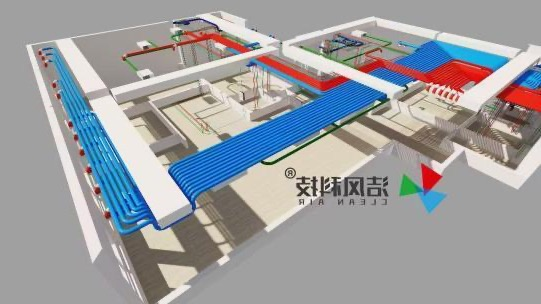
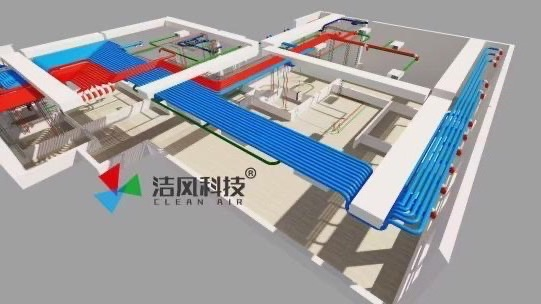
correct case imagery and editorial flow

diff --git a/proposal/jiangshanjing-fresh-air/index.html b/proposal/jiangshanjing-fresh-air/index.html
@@ -6,7 +6,7 @@
     <meta name="robots" content="noindex, nofollow, noarchive, nosnippet, noimageindex" />
     <meta name="referrer" content="no-referrer" />
     <title>长沙江山境新风与阳台地暖提案 | ZEFENG MEP</title>
-    <link rel="stylesheet" href="/proposal/jiangshanjing-fresh-air/proposal.css?v=20260825-6" />
+    <link rel="stylesheet" href="/proposal/jiangshanjing-fresh-air/proposal.css?v=20260825-7" />
   </head>
   <body>
     <header class="reader-bar">
@@ -38,8 +38,20 @@
           <p>按客餐厅 <b>1.0 次/h</b>、卧室 <b>1.5 次/h</b>、净高 <b>2.7m</b> 初算，所需有效新风量约 <b>633m³/h</b>。建议采用 <strong>基德曼 ZEUS Ultra 7.5（750m³/h）</strong>，并以 <strong>14 个 PE90 独立送风口</strong>完成分区送风；主机预留约 18.5% 的系统余量，最终以实际设计静压下不低于约 630-650m³/h 的有效风量完成深化与调试。</p>
         </aside>
 
-        <section>
-          <p class="chapter">01 · WHY FRESH AIR</p>
+        <section class="reading-map">
+          <p class="reading-kicker">阅读这份提案</p>
+          <h2>从居住问题出发，最后落到可以验收的结果</h2>
+          <ol>
+            <li><span>01</span><div><b>为什么需要新风</b><p>先理解二楼住宅的真实通风处境，而不是从设备参数开始。</p></div></li>
+            <li><span>02</span><div><b>需要多少风量</b><p>按空间逐一计算，明确主机、风口与每个房间的目标值。</p></div></li>
+            <li><span>03</span><div><b>如何把风送到房间</b><p>说明独立送回风、分风箱与一管到底的完整气流路径。</p></div></li>
+            <li><span>04</span><div><b>如何证明施工结果</b><p>用 BIM、施工实景和吊顶前实测建立可追溯的交付证据。</p></div></li>
+            <li><span>05</span><div><b>最终承诺什么</b><p>把得风率、PM2.5、CO₂ 与噪声写成有条件的验收目标。</p></div></li>
+          </ol>
+        </section>
+
+        <section class="theme-insight">
+          <p class="chapter">01 · 居住背景</p>
           <h2>二楼住宅，不宜把开窗当作唯一通风方式</h2>
           <p class="deck">本案位于高层商品房的低楼层。开窗当然可以换气，但噪声、蚊虫、灰尘、尾气与安全感会同时进入生活。</p>
           <div class="low-floor-grid">
@@ -57,8 +69,8 @@
           </div>
         </section>
 
-        <section class="dimensions-section">
-          <p class="chapter">02 · FOUR DIMENSIONS</p>
+        <section class="dimensions-section theme-insight">
+          <p class="chapter">02 · 住宅四维</p>
           <h2>住宅品质，要从空气、水、光、声四个维度理解</h2>
           <p class="deck">装修决定第一眼的美，机电系统决定身体每天真实感受到的居住环境。</p>
           <div class="dimension-grid">
@@ -70,8 +82,8 @@
           <p class="source-note">本提案重点解决空气与水/热环境，并通过关窗换气、消音和减振保护声环境；光环境由室内设计专项深化。ZEUS Ultra 750 是全热交换新风，不具备主动制冷、制热或深度除湿能力，湿度仍需由空调或独立控湿系统承担。</p>
         </section>
 
-        <section>
-          <p class="chapter">03 · AIRFLOW BASIS</p>
+        <section class="theme-air">
+          <p class="chapter">03 · 风量依据</p>
           <h2>先按空间计算，再决定主机</h2>
           <p class="deck">厨房、家政间及卫生间不计入主要送风面积；卫生间通过独立排风建立洁净空气的最终出口。</p>
           <div class="airflow-table" role="table" aria-label="江山境新风量初步计算">
@@ -86,8 +98,8 @@
           <p class="source-note">初算依据：图示主要服务面积合计 194.60㎡，层高按 2.7m；北侧家政间旁厨房、家政间、卫生间及附属小空间未计入主要送风面积。最终风量还需结合常住人数、门窗气密性和实际管路阻力复核。</p>
         </section>
 
-        <section class="product-section">
-          <p class="chapter">04 · MAIN UNIT</p>
+        <section class="product-section theme-air">
+          <p class="chapter">04 · 主机选型</p>
           <h2>为什么选择 ZEUS Ultra 750</h2>
           <p class="deck">不是单纯追求更大的铭牌风量，而是给管路、过滤器和长期使用留出可调余量。</p>
           <figure class="article-image product-image">
@@ -106,8 +118,8 @@
           </div>
         </section>
 
-        <section>
-          <p class="chapter">05 · AIR DISTRIBUTION</p>
+        <section class="theme-air">
+          <p class="chapter">05 · 气流组织</p>
           <h2>每个区域有送风，也有回风</h2>
           <p class="deck">新风真正的价值，不只在于进入住宅，还在于经过人的停留区后，能沿清晰路径被带走。</p>
           <div class="route-diagram" aria-label="江山境新风空气路径">
@@ -146,8 +158,8 @@
           </div>
         </section>
 
-        <section class="bathroom-section">
-          <p class="chapter">06 · CLEAN BATHROOM</p>
+        <section class="bathroom-section theme-air">
+          <p class="chapter">06 · 洁净卫生间</p>
           <h2>洁净卫生间，不让湿气和异味回到生活区</h2>
           <p class="deck">建议主卧套内主卫与暗卫各设置 1 台洁风智慧排风，形成两个独立的负压排风点。</p>
           <div class="bathroom-flow"><span>生活区微正压</span><i>→</i><strong>卫生间轻微负压</strong><i>→</i><span>定向排至室外</span></div>
@@ -159,30 +171,30 @@
           <p class="source-note">智慧排风最终档位、定排量和增压量需结合排风管长度、止回装置、室外风压、门下缝或转移风条件调试。排风不得接入新风机室外新风取风口附近，避免短路回吸。</p>
         </section>
 
-        <section class="delivery-quality-section">
-          <p class="chapter">07 · DELIVERY AS PROOF</p>
+        <section class="delivery-quality-section theme-delivery">
+          <p class="chapter">07 · 交付实证</p>
           <h2>设备只是起点，吊顶前的数据才是交付</h2>
           <p class="deck">同样的主机与管材，设计路径、弯曲半径、支路阻力、消音减振和逐口平衡都会改变最后的结果。泽丰把这些看不见的过程，变成一组可检查的案例证据。</p>
 
           <div class="case-story">
-            <figure class="case-visual case-bim"><img src="/proposal/jiangshanjing-fresh-air/images/case-bim-model.jpg" alt="洁风住宅机电 BIM 管线路由建模案例" /><figcaption>同类住宅项目：BIM 管线路由深化</figcaption></figure>
-            <div class="case-copy"><span>01 / BEFORE SITE</span><h3>先在模型里解决冲突，再到现场布管</h3><p>按房间目标风量反推风口、支路与分风箱，提前协调梁位、吊顶、水电管线、检修口和外墙孔。模型不是效果图，而是现场放线、编号与复核的共同依据。</p></div>
+            <figure class="case-visual case-bim"><img src="/proposal/jiangshanjing-fresh-air/images/case-bim-model.jpg?v=3" alt="洁风住宅机电 BIM 管线路由建模案例" /><figcaption>同类住宅项目：BIM 管线路由深化</figcaption></figure>
+            <div class="case-copy"><span>01 / 施工之前</span><h3>先在模型里解决冲突，再到现场布管</h3><p>按房间目标风量反推风口、支路与分风箱，提前协调梁位、吊顶、水电管线、检修口和外墙孔。模型不是效果图，而是现场放线、编号与复核的共同依据。</p></div>
           </div>
 
-          <figure class="case-panorama"><img src="/proposal/jiangshanjing-fresh-air/images/case-pipes-cyan.jpg" alt="洁风抗菌 PE 新风管一管到底精细施工案例" /><figcaption><b>02 / PRECISE INSTALLATION</b><span>洁风抗菌 PE 管由分风箱独立分配，一管到底；支路有序、标识清楚、弯曲顺畅，吊顶封闭后仍可追溯。</span></figcaption></figure>
+          <figure class="case-panorama"><img src="/proposal/jiangshanjing-fresh-air/images/case-pipes-cyan.jpg?v=3" alt="洁风抗菌 PE 新风管一管到底精细施工案例" /><figcaption><b>02 / 精细施工</b><span>洁风抗菌 PE 管由分风箱独立分配，一管到底；支路有序、标识清楚、弯曲顺畅，吊顶封闭后仍可追溯。</span></figcaption></figure>
 
           <div class="case-detail">
-            <figure><img src="/proposal/jiangshanjing-fresh-air/images/case-pipes-blue.jpg" alt="蓝色 PE 新风管绕梁有序施工案例" /></figure>
+            <figure><img src="/proposal/jiangshanjing-fresh-air/images/case-pipes-blue.jpg?v=3" alt="蓝色 PE 新风管绕梁有序施工案例" /></figure>
             <div><span>施工案例细节</span><h3>不以“吊顶会遮住”为理由降低标准</h3><p>每条支路控制弯曲半径和固定间距，关键连接密封、主机软接减振、室外风管连续保温；送回风支路逐根编号，不用三通串联把未知阻力藏在吊顶里。</p><p>这套做法的价值，是让远端房间也能获得设计风量，同时降低气流声与串音风险。</p></div>
           </div>
 
           <div class="case-measurement">
-            <div class="measurement-copy"><span>03 / BEFORE CEILING CLOSURE</span><h3>先验收，再允许封吊顶</h3><p>安装完成、吊顶尚未封闭时，逐口测量送风、回风和卫生间排风，并同步检查管路、标签、密封、保温、减振和检修条件。若有偏差，此时仍能找到原因并立即调整。</p><strong>这是泽丰与普通设备销售最重要的区别：不是等入住后凭体感争论，而是在隐蔽工程封闭前用数据确认。</strong></div>
+            <div class="measurement-copy"><span>03 / 吊顶封闭之前</span><h3>先验收，再允许封吊顶</h3><p>安装完成、吊顶尚未封闭时，逐口测量送风、回风和卫生间排风，并同步检查管路、标签、密封、保温、减振和检修条件。若有偏差，此时仍能找到原因并立即调整。</p><strong>这是泽丰与普通设备销售最重要的区别：不是等入住后凭体感争论，而是在隐蔽工程封闭前用数据确认。</strong></div>
             <figure><img src="/proposal/jiangshanjing-fresh-air/images/case-airflow-testing.jpg?v=2" alt="洁风技术人员在吊顶封闭前进行风量实测" /><figcaption>同类项目吊顶前逐口风量检测</figcaption></figure>
           </div>
 
           <div class="air-delivery-definition">
-            <div><span>ROOM DELIVERY RATE</span><h3>我们只看每个房间是否真正得到设计风量</h3></div>
+            <div><span>每个房间的得风率</span><h3>我们只看每个房间是否真正得到设计风量</h3></div>
             <p class="delivery-formula">房间得风率 = 该房间实测送风量 ÷ 该房间设计送风量 × 100%</p>
             <div class="delivery-example">
               <span>验收口径示例</span><b>设计 60m³/h</b><i>→</i><strong>实测不得低于 60m³/h</strong><em>得风率 ≥100%</em>
@@ -191,8 +203,8 @@
           </div>
         </section>
 
-        <section>
-          <p class="chapter">08 · MATERIAL SYSTEM</p>
+        <section class="theme-delivery">
+          <p class="chapter">08 · 材料系统</p>
           <h2>材料不是零散采购，而是一套低阻、低噪、可调的风路系统</h2>
           <div class="system-ledger">
             <article><i>01</i><div><h3>洁风定制分风箱</h3><p>送风与回风分别集中分配，支路编号清晰，便于单管调节、检修与最终风量平衡。</p></div></article>
@@ -204,8 +216,8 @@
           </div>
         </section>
 
-        <section class="heating-section">
-          <p class="chapter">09 · BALCONY HEATING</p>
+        <section class="heating-section theme-heat">
+          <p class="chapter">09 · 阳台地暖</p>
           <h2>补齐客厅阳台的温度边界</h2>
           <p class="deck">精装地暖没有覆盖客厅阳台。本案按约 22㎡ 增设两路水地暖，让阳台与客厅形成连续、舒适的活动空间。</p>
           <figure class="article-image heating-plan">
@@ -244,8 +256,8 @@
           <p class="source-note">施工前需复核阳台门槛、完成面标高、饰面材料适配性、实际可铺面积、单回路长度及阻力。地暖层做法与装饰完成面之间的配合由现场深化后确认。</p>
         </section>
 
-        <section class="boiler-section">
-          <p class="chapter">10 · HEAT SOURCE</p>
+        <section class="boiler-section theme-heat">
+          <p class="chapter">10 · 热源选择</p>
           <h2>为什么选择小沃 Pro 7R 28kW</h2>
           <p class="deck">精装已配置地暖末端，但没有热源。28kW 的选择不是因为地暖负荷大，而是为了兼顾更充足、更稳定的家庭生活热水。</p>
           <div class="boiler-showcase">
@@ -292,8 +304,8 @@
           <p class="source-note">产品参数来源：小沃 2025H2 产品画册，Pro 7R 28kW（产品型号 LL1GBQ28-CWL28E68，货号 CWL28E66A）。额定电功率 165W、待机功率不高于 6W、天然气最大采暖流量 2.96m³/h。最终以正式订货单、到货铭牌、气源条件与厂家质保文件为准。</p>
         </section>
 
-        <section class="price-section">
-          <p class="chapter">11 · INVESTMENT</p>
+        <section class="price-section theme-investment">
+          <p class="chapter">11 · 项目投资</p>
           <h2>价格透明，增项边界清楚</h2>
           <div class="price-main">
             <div><span>基础系统方案</span><strong><small>¥</small>26,000</strong><em>含 1 台洁风智慧排风机</em></div>
@@ -318,19 +330,19 @@
           <p class="price-boundary">上述总价按新风系统配置 2 台智慧排风计算，其中新风 ¥29,500、阳台地暖及吊顶主管 ¥4,960、壁挂炉 ¥13,800。现有二次系统整改的未确认材料、装饰恢复、结构审批及特殊施工不在总价内，待现场复核后书面确认；国补减免不作为固定成交承诺。</p>
         </section>
 
-        <section class="delivery-section">
-          <p class="chapter">12 · MEASURABLE COMMITMENT</p>
+        <section class="delivery-section theme-assurance">
+          <p class="chapter">12 · 验收承诺</p>
           <h2>把舒适写成有条件、有仪器、有记录的承诺</h2>
           <p class="deck">风量在吊顶前验收，空气品质与噪声在系统完成后复测。两次验收各自解决不同问题，也避免把所有责任留到入住后的主观感受。</p>
 
           <div class="acceptance-timeline">
-            <div class="timeline-stage"><span>FIRST ACCEPTANCE</span><h3>吊顶封闭前</h3><p>逐根检查管路走向、支路编号、固定、弯曲半径、密封、连续保温、软接减振和检修空间；逐口记录送风、回风与卫生间排风，确认每个房间得风率不低于 100%，并记录主机档位与噪声基线。</p></div>
+            <div class="timeline-stage"><span>第一次验收</span><h3>吊顶封闭前</h3><p>逐根检查管路走向、支路编号、固定、弯曲半径、密封、连续保温、软接减振和检修空间；逐口记录送风、回风与卫生间排风，确认每个房间得风率不低于 100%，并记录主机档位与噪声基线。</p></div>
             <div class="timeline-line"><i></i><b>隐蔽工程允许封闭</b></div>
-            <div class="timeline-stage"><span>FINAL ACCEPTANCE</span><h3>完工与正常运行后</h3><p>复核风口状态、智慧排风联动和室内压力关系；在约定工况下记录 PM2.5、CO₂ 趋势与人员活动区噪声，同时完成地暖压力、排气、回路平衡及壁挂炉控制联动。</p></div>
+            <div class="timeline-stage"><span>最终验收</span><h3>完工与正常运行后</h3><p>复核风口状态、智慧排风联动和室内压力关系；在约定工况下记录 PM2.5、CO₂ 趋势与人员活动区噪声，同时完成地暖压力、排气、回路平衡及壁挂炉控制联动。</p></div>
           </div>
 
           <div class="environment-commitments">
-            <div class="commitment-intro"><span>COMFORT TARGETS</span><h3>江山境室内环境交付目标</h3><p>所有指标都须在约定检测条件下理解，检测位置、时间、主机档位、室外环境、入住人数与仪器型号同步写入记录。</p></div>
+            <div class="commitment-intro"><span>环境交付目标</span><h3>江山境室内环境交付目标</h3><p>所有指标都须在约定检测条件下理解，检测位置、时间、主机档位、室外环境、入住人数与仪器型号同步写入记录。</p></div>
             <dl>
               <div><dt>PM2.5</dt><dd><strong>≤35</strong><small>μg/m³</small><p>门窗关闭、滤网处于有效寿命、室内无吸烟或烹饪等颗粒物源，系统按设计净化模式连续运行后检测。</p></dd></div>
               <div><dt>CO₂</dt><dd><strong>≤1000</strong><small>ppm</small><p>按设计居住人数、门窗关闭且系统按设计风量运行，在主要人员活动区进行趋势检测。</p></dd></div>
@@ -342,7 +354,7 @@
         </section>
 
         <section class="advisor-section">
-          <p class="chapter">PROJECT ADVISOR</p>
+          <p class="chapter">项目顾问</p>
           <div class="advisor-card">
             <div><span>销售技术顾问</span><h2>高明</h2><p>13 年专注住宅暖通与室内空气环境。以客户能理解的方式把设备、风量、路径、噪声、施工和验收讲清楚，并对方案落地负责。</p></div>
             <a href="tel:19158228989"><small>项目咨询</small><strong>191 5822 8989</strong></a>

diff --git a/proposal/jiangshanjing-fresh-air/proposal.css b/proposal/jiangshanjing-fresh-air/proposal.css
@@ -23,3 +23,8 @@
 @media(min-width:1100px){.article-shell{box-shadow:0 0 60px rgba(32,42,49,.06)}}
 .category,.chapter{color:#7c858c;font-weight:600}.article-head h1{font-size:58px;line-height:1.18;font-weight:600}.article-head h1 span{color:var(--blue)}.subtitle{color:#596169;font-size:18px;line-height:1.75}.meta{color:#92999e}.lead-section p,article>section>p{color:#4f575e}.deck{border-left:2px solid var(--blue);color:#5d656c!important}.conclusion>span,.low-floor-grid span,.bathroom-grid span,.material-grid span,.boiler-reasons span,.delivery-grid span,.site-reference>span,.boiler-intro>span,.secondary-system span,.boiler-selection>span,.case-copy span,.case-detail span,.measurement-copy span,.air-delivery-definition span,.commitment-intro span,.timeline-stage>span{color:#737d84}.dimensions-section{background:#f1f2f3}.product-section{background:#f3f5f6}.bathroom-section{background:#f4f5f5}.delivery-quality-section{background:#fbfbfa}.heating-section{background:#f3f4f4}.boiler-section{background:#eff2f3}.price-section{background:#15191c}article section h2{font-size:36px;line-height:1.35;font-weight:600}.case-copy h3,.case-detail h3,.measurement-copy h3,.air-delivery-definition h3,.commitment-intro h3,.timeline-stage h3{line-height:1.4}.delivery-formula{font-weight:500!important}.closing h2{color:var(--charcoal);font-weight:500}
 @media(max-width:700px){.article-head h1{font-size:34px;line-height:1.28}.subtitle{font-size:15px}article section h2{font-size:28px}.case-copy h3,.case-detail h3,.measurement-copy h3,.air-delivery-definition h3,.commitment-intro h3,.timeline-stage h3{font-size:22px}.closing h2{font-size:29px}}
+.lead-section{max-width:760px;columns:auto}.lead-section p,article>section>p{max-width:760px;text-align:left;font-size:16px;line-height:2.05}.lead-section strong,article>section>p strong{color:var(--ink);font-weight:600}.chapter{color:var(--section-accent,#65717a);font-size:11px}.theme-insight{--section-accent:#7d665a}.theme-air{--section-accent:#2f6376}.theme-delivery{--section-accent:#28766f}.theme-heat{--section-accent:#9a5f46}.theme-investment{--section-accent:#b28a54}.theme-assurance{--section-accent:#355f77}.theme-insight .deck,.theme-air .deck,.theme-delivery .deck,.theme-heat .deck,.theme-assurance .deck{border-left-color:var(--section-accent)}
+.reading-map{margin-top:88px!important;padding:52px 0 8px;border-top:1px solid var(--line)}.reading-kicker{margin:0 0 13px!important;color:#8c6b57!important;font-size:11px!important;font-weight:600}.reading-map h2{max-width:640px}.reading-map ol{margin:34px 0 0;padding:0;border-top:1px solid var(--line);list-style:none}.reading-map li{display:grid;grid-template-columns:70px 210px 1fr;gap:22px;align-items:baseline;padding:19px 0;border-bottom:1px solid var(--line)}.reading-map li>span{color:#a3a9ad;font-size:11px;font-weight:600}.reading-map li div{display:contents}.reading-map li b{color:var(--ink);font-size:15px;font-weight:600}.reading-map li p{margin:0;color:#737b81;font-size:12px;line-height:1.8}
+.case-panorama img{max-height:none;object-fit:contain;object-position:center}.case-detail{grid-template-columns:minmax(260px,360px) 1fr}.case-detail img{aspect-ratio:auto;object-fit:contain}.case-story{grid-template-columns:1.15fr 1fr}.case-copy p,.case-detail p,.measurement-copy p,.commitment-intro p,.timeline-stage p{font-size:14px;line-height:2}.case-panorama figcaption{padding:17px 0}.case-panorama figcaption b{color:var(--section-accent);font-size:11px}.measurement-copy strong{border-left-color:var(--section-accent);color:var(--section-accent)}
+.theme-heat .heating-highlight strong,.theme-heat .hydraulic-note h3,.theme-heat .boiler-specs strong,.theme-heat .boiler-selection strong{color:var(--section-accent)}.theme-heat .hydraulic-note{border-top-color:var(--section-accent)}.theme-heat .site-reference>span,.theme-heat .material-grid span,.theme-heat .boiler-intro>span,.theme-heat .boiler-reasons span,.theme-heat .secondary-system span,.theme-heat .boiler-selection>span{color:var(--section-accent)}.theme-delivery .system-ledger h3,.theme-delivery .delivery-formula{color:var(--section-accent)!important}.theme-assurance .environment-commitments{border-top-color:var(--section-accent)}.theme-assurance .environment-commitments dd strong{color:var(--section-accent)}.theme-investment .chapter{color:#d2ad76}
+@media(max-width:700px){.lead-section p,article>section>p{font-size:16px;line-height:2}.reading-map{margin-top:64px!important;padding-top:40px}.reading-map li{grid-template-columns:38px 1fr;gap:10px 12px;padding:18px 0}.reading-map li div{display:block}.reading-map li p{grid-column:2;margin-top:6px}.reading-map li b{font-size:15px}.case-detail{grid-template-columns:1fr}.case-detail figure{max-width:280px}.case-panorama img{width:100%;height:auto}.case-story{grid-template-columns:1fr}}
